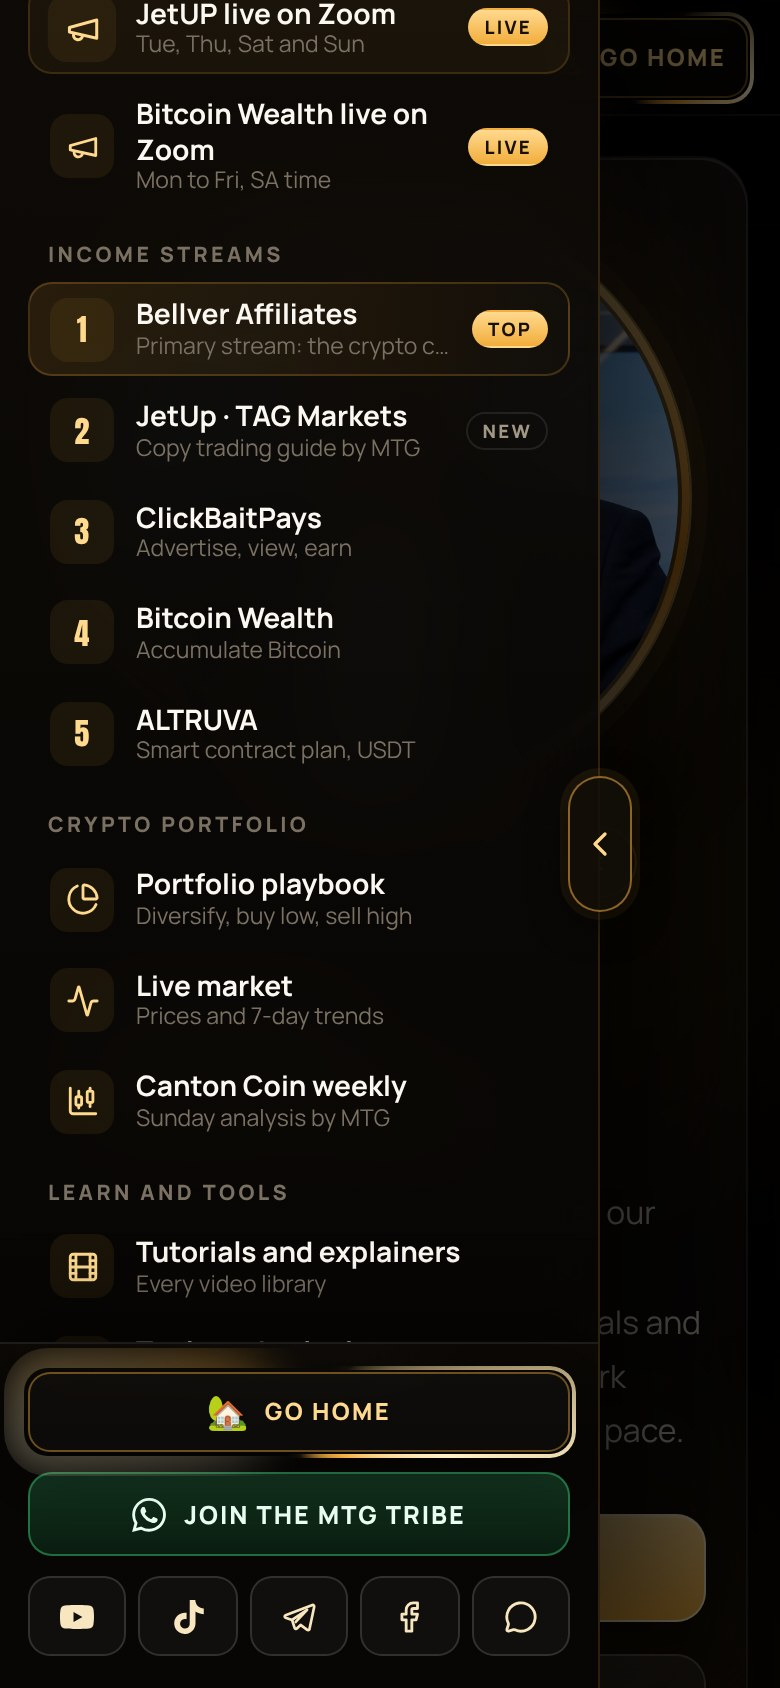
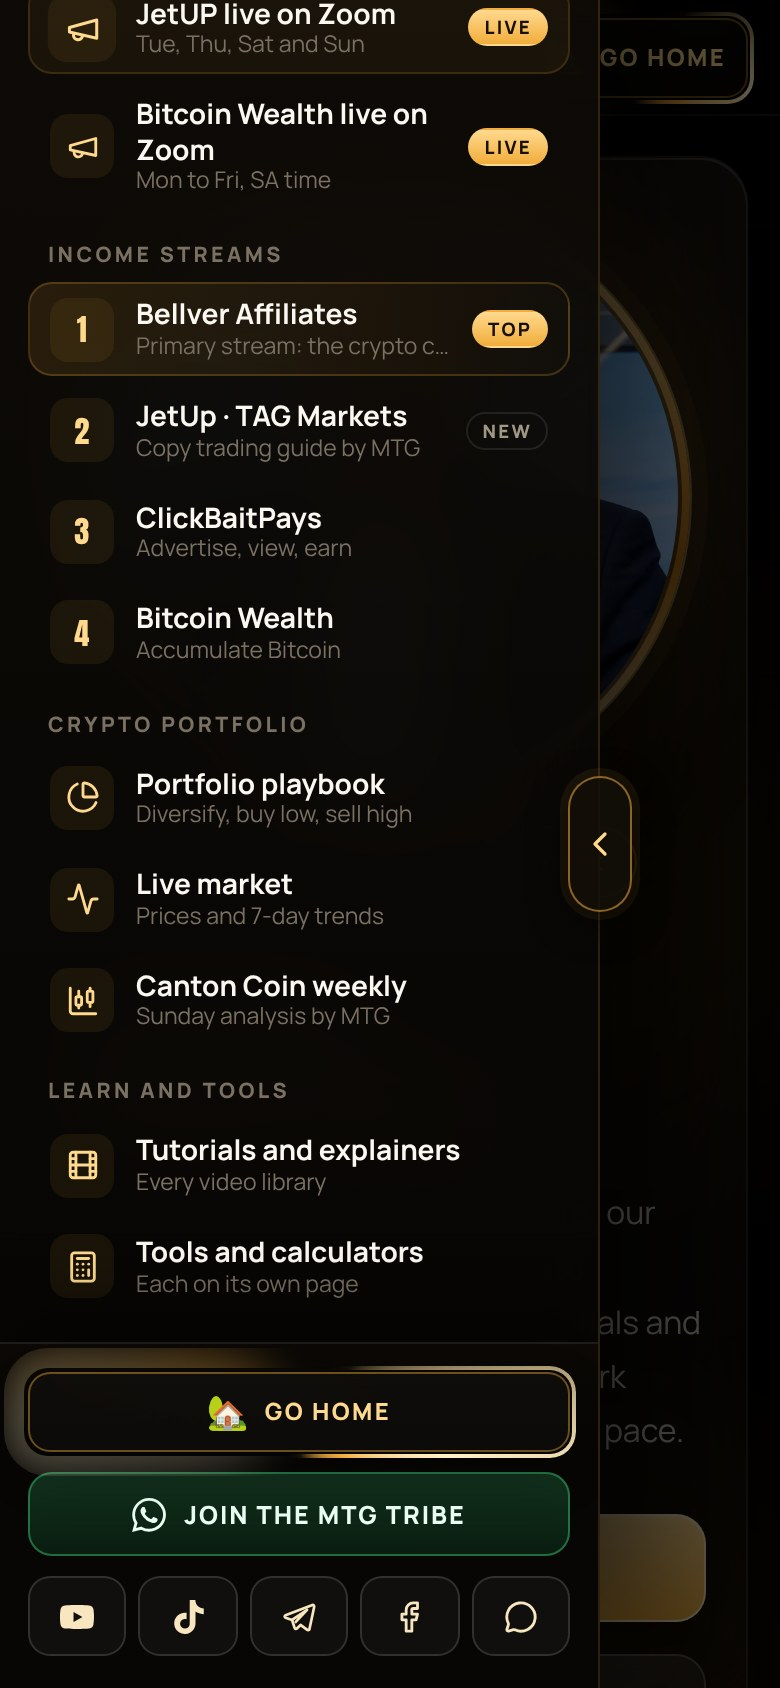
Canton weekly video: ALTRUVA no longer named as an income stream (MTG, 24 Nov 2026)
Claude-Session: https://claude.ai/code/session_0172AfCGnyDWUiV2VCJTPBmm

diff --git a/tools/canton-weekly/menu_capture.js b/tools/canton-weekly/menu_capture.js
@@ -1,12 +1,14 @@
 // Click by click screenshots of mtgtribe.com for the Canton Weekly "income streams" scene (MTG, 24 Nov 2026).
-// Usage: node tools/canton-weekly/menu_capture.js BASE_URL OUT_DIR
+// Usage: node tools/canton-weekly/menu_capture.js BASE_URL OUT_DIR [HIDE]
+// HIDE: stream names to leave out, joined by | (prepare.py EXCLUDE_STREAMS): they are hidden in the menu before the shot.
 // BASE_URL is the site to capture: video.py serves this checkout on localhost, so the video always shows the menu as it is
 // in the repo that week. Writes home.jpg, dash.jpg and menu.jpg (phone screen, 390 x 844 at 2x) and boxes.json: where to
 // tap on each screen and where each income stream sits in the menu, so the video can highlight them one by one.
 const {chromium} = require('playwright');
 const fs = require('fs');
 (async () => {
-  const [base, out] = process.argv.slice(2);
+  const [base, out, hideArg] = process.argv.slice(2);
+  const hide = (hideArg || '').split('|').filter(Boolean);
   const b = await chromium.launch();
   const ctx = await b.newContext({viewport: {width: 390, height: 844}, deviceScaleFactor: 2, isMobile: true, hasTouch: true, reducedMotion: 'reduce'});
   const p = await ctx.newPage();
@@ -23,13 +25,14 @@ const fs = require('fs');
   await p.screenshot({path: out + '/dash.jpg', type: 'jpeg', quality: 88});
   // 3. The menu is open: the Income streams, one by one.
   await p.locator('.md-menu').first().click(); await p.waitForTimeout(900);
+  await p.evaluate(h => document.querySelectorAll('#mtg-menu .md-nav').forEach(a => { const b = a.querySelector('b'); if (b && h.includes(b.textContent.trim())) a.style.display = 'none'; }), hide);
   const label = p.locator('#mtg-menu .md-label', {hasText: 'Income streams'}).first();
   await label.evaluate(e => { const m = document.getElementById('mtg-menu'); m.scrollTop = Math.max(0, e.offsetTop - 120); });
   await p.waitForTimeout(400);
   boxes.label = await box(label);
   const items = await p.$$eval('#mtg-menu .md-label', ls => {
     const l = ls.find(x => /Income streams/i.test(x.textContent)); const out = []; let e = l && l.nextElementSibling;
-    while (e && e.matches('.md-nav')) { const r = e.getBoundingClientRect(); out.push({name: e.querySelector('b').textContent.trim(), x: r.x, y: r.y, w: r.width, h: r.height}); e = e.nextElementSibling; }
+    while (e && e.matches('.md-nav')) { const r = e.getBoundingClientRect(); if (e.style.display !== 'none') out.push({name: e.querySelector('b').textContent.trim(), x: r.x, y: r.y, w: r.width, h: r.height}); e = e.nextElementSibling; }
     return out;
   });
   boxes.streams = items;

diff --git a/tools/canton-weekly/prepare.py b/tools/canton-weekly/prepare.py
@@ -88,6 +88,11 @@ TRIBE = {
                 "Join us at mtgtribe.com/group."),
 }
 
+# Streams MTG does not want named in the weekly video, even while they are still in the dashboard menu
+# (MTG, 24 Nov 2026: "please remove ALTRUVA, I no longer want it there as one of my income streams").
+# video.py hides them in the menu screenshots too.
+EXCLUDE_STREAMS = {"ALTRUVA"}
+
 NUM = ["One", "Two", "Three", "Four", "Five", "Six", "Seven", "Eight", "Nine", "Ten"]
 
 
@@ -99,6 +104,7 @@ def income_streams():
     j = h.index('Income streams</p>', i)
     k = h.index('<p class="md-label">', j)
     names = [re.sub(r"<[^>]+>", "", n).replace("&amp;", "&").strip() for n in re.findall(r'class="md-nav[^"]*"[^>]*>.*?<b>(.*?)</b>', h[j:k])]
+    names = [n for n in names if n not in EXCLUDE_STREAMS]
     if not 3 <= len(names) <= 10:
         raise SystemExit(f"Found {len(names)} income streams in the dashboard menu: check dashboard/index.html")
     return names

diff --git a/tools/canton-weekly/video.py b/tools/canton-weekly/video.py
@@ -268,7 +268,9 @@ def capture_menu(tmp):
     warn = None
     try:
         time.sleep(1)
-        subprocess.run(["node", os.path.join(ROOT, "tools", "canton-weekly", "menu_capture.js"), f"http://127.0.0.1:{port}", out], check=True, timeout=180)
+        sys.path.insert(0, os.path.dirname(os.path.abspath(__file__)))
+        from prepare import EXCLUDE_STREAMS
+        subprocess.run(["node", os.path.join(ROOT, "tools", "canton-weekly", "menu_capture.js"), f"http://127.0.0.1:{port}", out, "|".join(sorted(EXCLUDE_STREAMS))], check=True, timeout=180)
     except Exception as e:
         warn = f"menu capture failed ({e}): the streams scene used the stored screenshots in {MENU_FALLBACK}"
         out = MENU_FALLBACK

diff --git a/tools/canton-weekly/README.md b/tools/canton-weekly/README.md
@@ -17,7 +17,8 @@ Every Sunday the "Canton CC Weekly Report" scheduled task:
      "test drive one") and the **Bellver Card ad** (`"bellver"`).
    The streams are read from the Income streams list of the dashboard menu (dashboard/index.html), and video.py takes
    fresh phone screenshots of this checkout's mtgtribe.com for that scene (menu_capture.js), so a new stream appears on
-   its own. Because the narration is made from `video_script`, all of this is in MTG's voice. The fixed scenes add about
+   its own. Streams MTG no longer wants named are listed in `EXCLUDE_STREAMS` in prepare.py (ALTRUVA since
+   24 Nov 2026): they are left out of the script and hidden in the menu screenshots. Because the narration is made from `video_script`, all of this is in MTG's voice. The fixed scenes add about
    1 minute 45 seconds, so **keep the week's own scenes (intro to fundamentals, guides, outro) short and to the point**:
    about 1 minute 30 seconds together, the whole video about 3 minutes 15 seconds at most. This replaces the older "under about
    2 minutes" in the task prompt (MTG, 24 Nov 2026): never shorten or leave out a fixed scene to save time. Do not mention the universal
